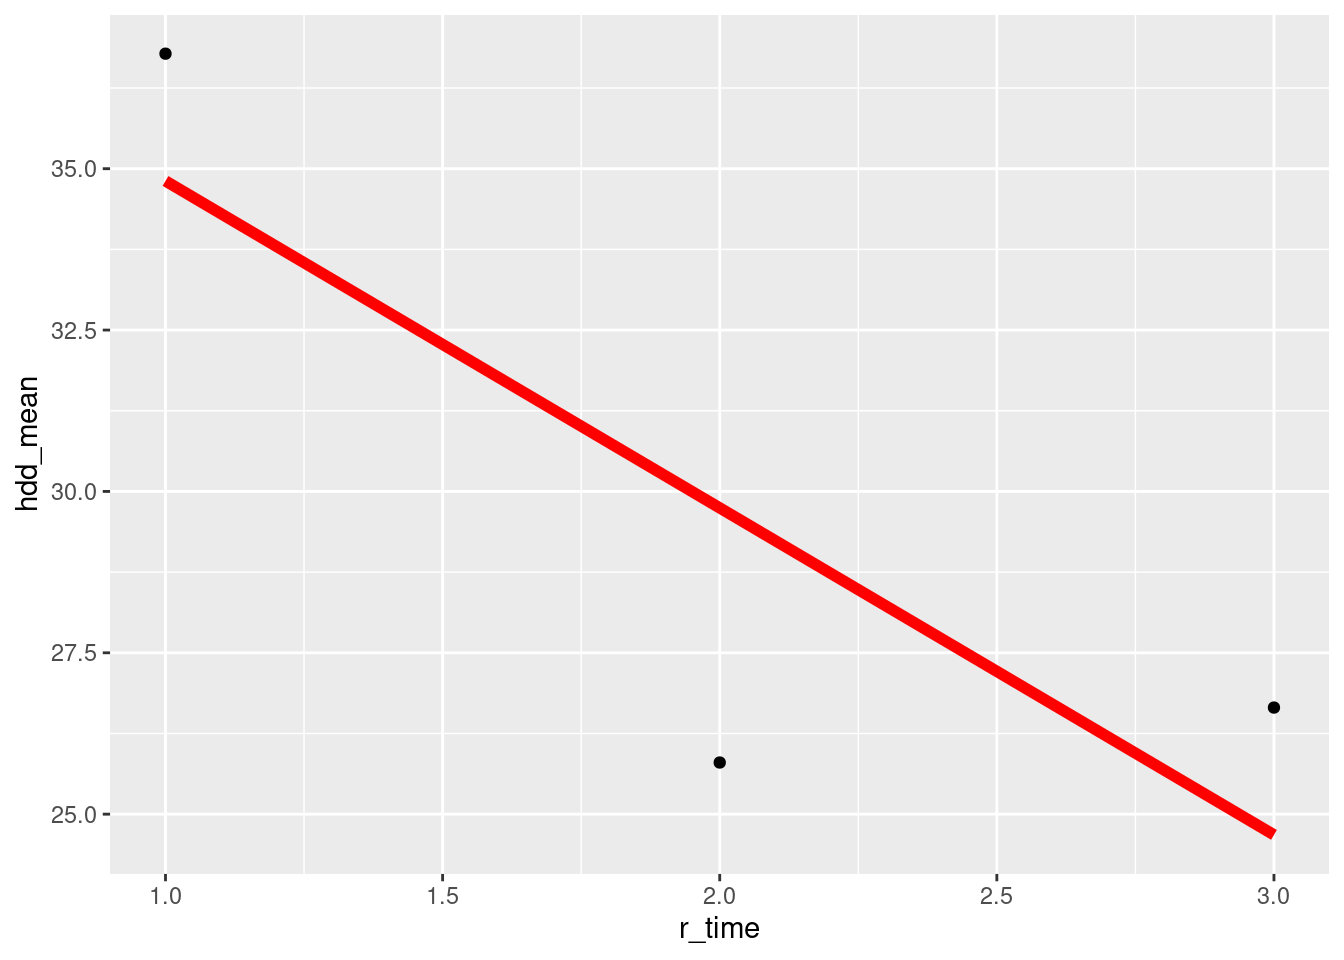
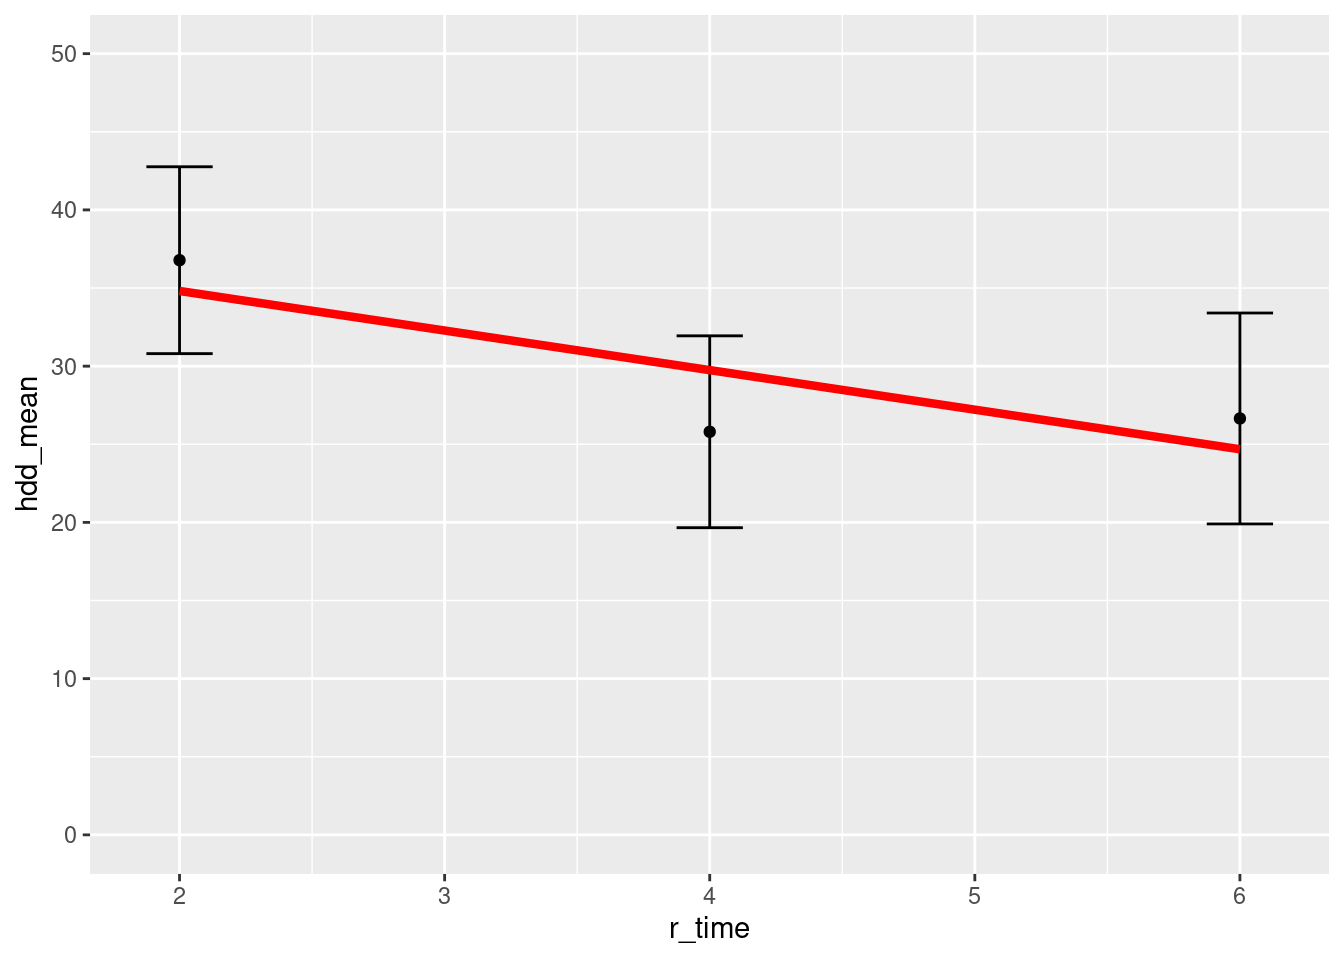
add error bars

diff --git a/docs/repeated_measures.html b/docs/repeated_measures.html
@@ -2,7 +2,7 @@
 <html xmlns="http://www.w3.org/1999/xhtml" lang="en" xml:lang="en"><head>
 
 <meta charset="utf-8">
-<meta name="generator" content="quarto-1.3.361">
+<meta name="generator" content="quarto-1.3.433">
 
 <meta name="viewport" content="width=device-width, initial-scale=1.0, user-scalable=yes">
 
@@ -126,7 +126,7 @@ pre > code.sourceCode > span > a:first-child::before { text-decoration: underlin
     <div class="sidebar-title mb-0 py-0">
       <a href="./">John Curtin’s Stats and Coding Notebook</a> 
         <div class="sidebar-tools-main">
-    <a href="https://github.com/jjcurtin/docs_notes" title="Source Code" class="quarto-navigation-tool px-1" aria-label="Source Code"><i class="bi bi-github"></i></a>
+    <a href="https://github.com/jjcurtin/docs_notes" rel="" title="Source Code" class="quarto-navigation-tool px-1" aria-label="Source Code"><i class="bi bi-github"></i></a>
 </div>
     </div>
       </div>
@@ -937,7 +937,7 @@ Signif. codes:  0 '***' 0.001 '**' 0.01 '*' 0.05 '.' 0.1 ' ' 1</code></pre>
 <p>And this model doesn’t make sphericity assumption because it allows for the slopes to vary by subject</p>
 <div class="cell">
 <div class="sourceCode cell-code" id="cb75"><pre class="sourceCode r code-with-copy"><code class="sourceCode r"><span id="cb75-1"><a href="#cb75-1" aria-hidden="true" tabindex="-1"></a>d_long <span class="ot">&lt;-</span> d_long <span class="sc">|&gt;</span> </span>
-<span id="cb75-2"><a href="#cb75-2" aria-hidden="true" tabindex="-1"></a>  <span class="fu">mutate</span>(<span class="at">r_time =</span> <span class="fu">as.numeric</span>(time),</span>
+<span id="cb75-2"><a href="#cb75-2" aria-hidden="true" tabindex="-1"></a>  <span class="fu">mutate</span>(<span class="at">r_time =</span> <span class="fu">as.numeric</span>(time) <span class="sc">*</span> <span class="dv">2</span>,  <span class="co"># for 2, 4, and 6 months</span></span>
 <span id="cb75-3"><a href="#cb75-3" aria-hidden="true" tabindex="-1"></a>         <span class="at">c_time =</span> r_time <span class="sc">-</span> <span class="dv">2</span>) <span class="sc">|&gt;</span> </span>
 <span id="cb75-4"><a href="#cb75-4" aria-hidden="true" tabindex="-1"></a>  <span class="fu">glimpse</span>()</span></code><button title="Copy to Clipboard" class="code-copy-button"><i class="bi"></i></button></pre></div>
 <div class="cell-output cell-output-stdout">
@@ -949,8 +949,8 @@ $ time      &lt;fct&gt; time1, time2, time3, time1, time2, time3, time1, time2, 
 $ hdd       &lt;dbl&gt; 65.0, 59.5, 42.0, 100.0, 100.0, 100.0, 0.0, 0.0, 0.0, 13.6, …
 $ time_32v1 &lt;dbl&gt; -0.6666667, 0.3333333, 0.3333333, -0.6666667, 0.3333333, 0.3…
 $ time_3v2  &lt;dbl&gt; 0.0, -0.5, 0.5, 0.0, -0.5, 0.5, 0.0, -0.5, 0.5, 0.0, -0.5, 0…
-$ r_time    &lt;dbl&gt; 1, 2, 3, 1, 2, 3, 1, 2, 3, 1, 2, 3, 1, 2, 3, 1, 2, 3, 1, 2, …
-$ c_time    &lt;dbl&gt; -1, 0, 1, -1, 0, 1, -1, 0, 1, -1, 0, 1, -1, 0, 1, -1, 0, 1, …</code></pre>
+$ r_time    &lt;dbl&gt; 2, 4, 6, 2, 4, 6, 2, 4, 6, 2, 4, 6, 2, 4, 6, 2, 4, 6, 2, 4, …
+$ c_time    &lt;dbl&gt; 0, 2, 4, 0, 2, 4, 0, 2, 4, 0, 2, 4, 0, 2, 4, 0, 2, 4, 0, 2, …</code></pre>
 </div>
 </div>
 <div class="cell">
@@ -962,16 +962,16 @@ $ c_time    &lt;dbl&gt; -1, 0, 1, -1, 0, 1, -1, 0, 1, -1, 0, 1, -1, 0, 1, -1, 0,
 <pre><code>Linear mixed model fit by REML ['lmerMod']
 Formula: hdd ~ r_time + (1 + r_time | study_id)
    Data: d_long
-REML criterion at convergence: 916.1419
+REML criterion at convergence: 917.5282
 Random effects:
  Groups   Name        Std.Dev. Corr 
- study_id (Intercept) 34.50         
-          r_time      11.10    -0.44
- Residual             14.73         
+ study_id (Intercept) 34.504        
+          r_time       5.552   -0.44
+ Residual             14.732        
 Number of obs: 99, groups:  study_id, 33
 Fixed Effects:
 (Intercept)       r_time  
-     39.875       -5.065  </code></pre>
+     39.875       -2.533  </code></pre>
 </div>
 <div class="sourceCode cell-code" id="cb79"><pre class="sourceCode r code-with-copy"><code class="sourceCode r"><span id="cb79-1"><a href="#cb79-1" aria-hidden="true" tabindex="-1"></a>m_raw <span class="sc">|&gt;</span> </span>
 <span id="cb79-2"><a href="#cb79-2" aria-hidden="true" tabindex="-1"></a>  car<span class="sc">::</span><span class="fu">Anova</span>(<span class="at">type =</span> <span class="dv">3</span>, <span class="at">test =</span> <span class="st">"F"</span>)</span></code><button title="Copy to Clipboard" class="code-copy-button"><i class="bi"></i></button></pre></div>
@@ -980,7 +980,7 @@ Fixed Effects:
 
 Response: hdd
                   F Df Df.res    Pr(&gt;F)    
-(Intercept) 30.9199  1     32 3.887e-06 ***
+(Intercept) 30.9206  1     32 3.887e-06 ***
 r_time       3.6522  1     32   0.06499 .  
 ---
 Signif. codes:  0 '***' 0.001 '**' 0.01 '*' 0.05 '.' 0.1 ' ' 1</code></pre>
@@ -996,16 +996,16 @@ Signif. codes:  0 '***' 0.001 '**' 0.01 '*' 0.05 '.' 0.1 ' ' 1</code></pre>
 <pre><code>Linear mixed model fit by REML ['lmerMod']
 Formula: hdd ~ c_time + (1 + c_time | study_id)
    Data: d_long
-REML criterion at convergence: 916.1419
+REML criterion at convergence: 917.5282
 Random effects:
- Groups   Name        Std.Dev. Corr
- study_id (Intercept) 31.87        
-          c_time      11.10    0.22
- Residual             14.73        
+ Groups   Name        Std.Dev. Corr 
+ study_id (Intercept) 31.303        
+          c_time       5.552   -0.13
+ Residual             14.732        
 Number of obs: 99, groups:  study_id, 33
 Fixed Effects:
 (Intercept)       c_time  
-     29.744       -5.065  </code></pre>
+     34.810       -2.533  </code></pre>
 </div>
 <div class="sourceCode cell-code" id="cb83"><pre class="sourceCode r code-with-copy"><code class="sourceCode r"><span id="cb83-1"><a href="#cb83-1" aria-hidden="true" tabindex="-1"></a>m_center <span class="sc">|&gt;</span> </span>
 <span id="cb83-2"><a href="#cb83-2" aria-hidden="true" tabindex="-1"></a>  car<span class="sc">::</span><span class="fu">Anova</span>(<span class="at">type =</span> <span class="dv">3</span>, <span class="at">test =</span> <span class="st">"F"</span>)</span></code><button title="Copy to Clipboard" class="code-copy-button"><i class="bi"></i></button></pre></div>
@@ -1014,7 +1014,7 @@ Fixed Effects:
 
 Response: hdd
                   F Df Df.res    Pr(&gt;F)    
-(Intercept) 26.8308  1     32 1.178e-05 ***
+(Intercept) 34.4489  1     32 1.585e-06 ***
 c_time       3.6523  1     32   0.06498 .  
 ---
 Signif. codes:  0 '***' 0.001 '**' 0.01 '*' 0.05 '.' 0.1 ' ' 1</code></pre>
@@ -1034,9 +1034,9 @@ $ time      &lt;fct&gt; time1, time2, time3, time1, time2, time3, time1, time2, 
 $ hdd       &lt;dbl&gt; 65.0, 59.5, 42.0, 100.0, 100.0, 100.0, 0.0, 0.0, 0.0, 13.6, …
 $ time_32v1 &lt;dbl&gt; -0.6666667, 0.3333333, 0.3333333, -0.6666667, 0.3333333, 0.3…
 $ time_3v2  &lt;dbl&gt; 0.0, -0.5, 0.5, 0.0, -0.5, 0.5, 0.0, -0.5, 0.5, 0.0, -0.5, 0…
-$ r_time    &lt;dbl&gt; 1, 2, 3, 1, 2, 3, 1, 2, 3, 1, 2, 3, 1, 2, 3, 1, 2, 3, 1, 2, …
-$ c_time    &lt;dbl&gt; -1, 0, 1, -1, 0, 1, -1, 0, 1, -1, 0, 1, -1, 0, 1, -1, 0, 1, …
-$ c_time2   &lt;dbl&gt; 1, 0, 1, 1, 0, 1, 1, 0, 1, 1, 0, 1, 1, 0, 1, 1, 0, 1, 1, 0, …</code></pre>
+$ r_time    &lt;dbl&gt; 2, 4, 6, 2, 4, 6, 2, 4, 6, 2, 4, 6, 2, 4, 6, 2, 4, 6, 2, 4, …
+$ c_time    &lt;dbl&gt; 0, 2, 4, 0, 2, 4, 0, 2, 4, 0, 2, 4, 0, 2, 4, 0, 2, 4, 0, 2, …
+$ c_time2   &lt;dbl&gt; 0, 4, 16, 0, 4, 16, 0, 4, 16, 0, 4, 16, 0, 4, 16, 0, 4, 16, …</code></pre>
 </div>
 </div>
 <p>But you can’t fit poly model with quadratic effect with random slopes because, once again cant estimate intercept and both random slopes without more observations per subject</p>
@@ -1055,7 +1055,7 @@ $ c_time2   &lt;dbl&gt; 1, 0, 1, 1, 0, 1, 1, 0, 1, 1, 0, 1, 1, 0, 1, 1, 0, 1, 1,
 <pre><code>Linear mixed model fit by REML ['lmerMod']
 Formula: hdd ~ c_time + c_time2 + (1 | study_id)
    Data: d_long
-REML criterion at convergence: 914.686
+REML criterion at convergence: 918.8449
 Random effects:
  Groups   Name        Std.Dev.
  study_id (Intercept) 31.27   
@@ -1063,7 +1063,7 @@ Random effects:
 Number of obs: 99, groups:  study_id, 33
 Fixed Effects:
 (Intercept)       c_time      c_time2  
-     25.800       -5.065        5.917  </code></pre>
+     36.782       -8.449        1.479  </code></pre>
 </div>
 <div class="sourceCode cell-code" id="cb90"><pre class="sourceCode r code-with-copy"><code class="sourceCode r"><span id="cb90-1"><a href="#cb90-1" aria-hidden="true" tabindex="-1"></a>m_poly <span class="sc">|&gt;</span> </span>
 <span id="cb90-2"><a href="#cb90-2" aria-hidden="true" tabindex="-1"></a>  car<span class="sc">::</span><span class="fu">Anova</span>(<span class="at">type =</span> <span class="dv">3</span>, <span class="at">test =</span> <span class="st">"F"</span>)</span></code><button title="Copy to Clipboard" class="code-copy-button"><i class="bi"></i></button></pre></div>
@@ -1071,10 +1071,10 @@ Fixed Effects:
 <pre><code>Analysis of Deviance Table (Type III Wald F tests with Kenward-Roger df)
 
 Response: hdd
-                  F Df Df.res    Pr(&gt;F)    
-(Intercept) 16.7773  1 45.389 0.0001711 ***
-c_time       5.1052  1 64.000 0.0272672 *  
-c_time2      2.3220  1 64.000 0.1324835    
+                 F Df Df.res    Pr(&gt;F)    
+(Intercept) 34.099  1 45.389 5.255e-07 ***
+c_time       4.371  1 64.000   0.04053 *  
+c_time2      2.322  1 64.000   0.13248    
 ---
 Signif. codes:  0 '***' 0.001 '**' 0.01 '*' 0.05 '.' 0.1 ' ' 1</code></pre>
 </div>
@@ -1088,25 +1088,26 @@ Signif. codes:  0 '***' 0.001 '**' 0.01 '*' 0.05 '.' 0.1 ' ' 1</code></pre>
 <div class="sourceCode cell-code" id="cb92"><pre class="sourceCode r code-with-copy"><code class="sourceCode r"><span id="cb92-1"><a href="#cb92-1" aria-hidden="true" tabindex="-1"></a><span class="co"># we can add the means from raw data to plot and then superimpose the fitted model</span></span>
 <span id="cb92-2"><a href="#cb92-2" aria-hidden="true" tabindex="-1"></a>d_plot <span class="ot">&lt;-</span> d_long <span class="sc">|&gt;</span> </span>
 <span id="cb92-3"><a href="#cb92-3" aria-hidden="true" tabindex="-1"></a>  <span class="fu">group_by</span>(r_time) <span class="sc">|&gt;</span> </span>
-<span id="cb92-4"><a href="#cb92-4" aria-hidden="true" tabindex="-1"></a>  <span class="fu">summarize</span>(<span class="at">hdd_mean =</span> <span class="fu">mean</span>(hdd), <span class="at">hdd_sd =</span> <span class="fu">sd</span>(hdd)) <span class="sc">|&gt;</span> </span>
-<span id="cb92-5"><a href="#cb92-5" aria-hidden="true" tabindex="-1"></a>  <span class="fu">mutate</span>(<span class="at">study_id =</span> <span class="dv">999</span>)</span>
-<span id="cb92-6"><a href="#cb92-6" aria-hidden="true" tabindex="-1"></a></span>
-<span id="cb92-7"><a href="#cb92-7" aria-hidden="true" tabindex="-1"></a>d_plot <span class="ot">&lt;-</span> d_plot <span class="sc">|&gt;</span> </span>
-<span id="cb92-8"><a href="#cb92-8" aria-hidden="true" tabindex="-1"></a>  <span class="fu">mutate</span>(<span class="at">hdd_pred =</span> <span class="fu">predict</span>(m_raw, <span class="at">newdata =</span> d_plot, <span class="at">allow.new.levels =</span> <span class="cn">TRUE</span>)) <span class="sc">|&gt;</span> </span>
-<span id="cb92-9"><a href="#cb92-9" aria-hidden="true" tabindex="-1"></a>  <span class="fu">glimpse</span>()</span></code><button title="Copy to Clipboard" class="code-copy-button"><i class="bi"></i></button></pre></div>
+<span id="cb92-4"><a href="#cb92-4" aria-hidden="true" tabindex="-1"></a>  <span class="fu">summarize</span>(<span class="at">hdd_mean =</span> <span class="fu">mean</span>(hdd), <span class="at">hdd_se =</span> <span class="fu">sd</span>(hdd)<span class="sc">/</span> <span class="fu">sqrt</span>(<span class="fu">length</span>(hdd)))</span>
+<span id="cb92-5"><a href="#cb92-5" aria-hidden="true" tabindex="-1"></a></span>
+<span id="cb92-6"><a href="#cb92-6" aria-hidden="true" tabindex="-1"></a>d_plot <span class="ot">&lt;-</span> d_plot <span class="sc">|&gt;</span> </span>
+<span id="cb92-7"><a href="#cb92-7" aria-hidden="true" tabindex="-1"></a>  <span class="fu">mutate</span>(<span class="at">hdd_pred =</span> <span class="fu">predict</span>(m_raw, <span class="at">newdata =</span> d_plot, <span class="at">re.form =</span> <span class="cn">NA</span>)) <span class="sc">|&gt;</span> </span>
+<span id="cb92-8"><a href="#cb92-8" aria-hidden="true" tabindex="-1"></a>  <span class="fu">glimpse</span>()</span></code><button title="Copy to Clipboard" class="code-copy-button"><i class="bi"></i></button></pre></div>
 <div class="cell-output cell-output-stdout">
 <pre><code>Rows: 3
-Columns: 5
-$ r_time   &lt;dbl&gt; 1, 2, 3
+Columns: 4
+$ r_time   &lt;dbl&gt; 2, 4, 6
 $ hdd_mean &lt;dbl&gt; 36.78182, 25.80000, 26.65152
-$ hdd_sd   &lt;dbl&gt; 34.35172, 35.27460, 38.77493
-$ study_id &lt;dbl&gt; 999, 999, 999
+$ hdd_se   &lt;dbl&gt; 5.979868, 6.140520, 6.749849
 $ hdd_pred &lt;dbl&gt; 34.80960, 29.74444, 24.67929</code></pre>
 </div>
 <div class="sourceCode cell-code" id="cb94"><pre class="sourceCode r code-with-copy"><code class="sourceCode r"><span id="cb94-1"><a href="#cb94-1" aria-hidden="true" tabindex="-1"></a>d_plot <span class="sc">|&gt;</span> </span>
 <span id="cb94-2"><a href="#cb94-2" aria-hidden="true" tabindex="-1"></a>  <span class="fu">ggplot</span>(<span class="fu">aes</span>(<span class="at">x =</span> r_time)) <span class="sc">+</span></span>
-<span id="cb94-3"><a href="#cb94-3" aria-hidden="true" tabindex="-1"></a>    <span class="fu">geom_point</span>(<span class="fu">aes</span>(<span class="at">y =</span> hdd_mean)) <span class="sc">+</span></span>
-<span id="cb94-4"><a href="#cb94-4" aria-hidden="true" tabindex="-1"></a>    <span class="fu">geom_line</span>(<span class="fu">aes</span>(<span class="at">y =</span> hdd_pred), <span class="at">color =</span> <span class="st">"red"</span>, <span class="at">linewidth =</span> <span class="dv">2</span>) </span></code><button title="Copy to Clipboard" class="code-copy-button"><i class="bi"></i></button></pre></div>
+<span id="cb94-3"><a href="#cb94-3" aria-hidden="true" tabindex="-1"></a>    <span class="fu">geom_errorbar</span>(<span class="fu">aes</span>(<span class="at">ymin =</span> hdd_mean <span class="sc">-</span> hdd_se, <span class="at">ymax =</span> hdd_mean <span class="sc">+</span> hdd_se),</span>
+<span id="cb94-4"><a href="#cb94-4" aria-hidden="true" tabindex="-1"></a>                  <span class="at">width =</span> .<span class="dv">25</span>) <span class="sc">+</span></span>
+<span id="cb94-5"><a href="#cb94-5" aria-hidden="true" tabindex="-1"></a>    <span class="fu">geom_point</span>(<span class="fu">aes</span>(<span class="at">y =</span> hdd_mean)) <span class="sc">+</span></span>
+<span id="cb94-6"><a href="#cb94-6" aria-hidden="true" tabindex="-1"></a>    <span class="fu">geom_line</span>(<span class="fu">aes</span>(<span class="at">y =</span> hdd_pred), <span class="at">color =</span> <span class="st">"red"</span>, <span class="at">linewidth =</span> <span class="fl">1.5</span>) <span class="sc">+</span></span>
+<span id="cb94-7"><a href="#cb94-7" aria-hidden="true" tabindex="-1"></a>    <span class="fu">ylim</span>(<span class="dv">0</span>, <span class="dv">50</span>)</span></code><button title="Copy to Clipboard" class="code-copy-button"><i class="bi"></i></button></pre></div>
 <div class="cell-output-display">
 <p><img src="repeated_measures_files/figure-html/unnamed-chunk-32-1.png" class="img-fluid" width="672"></p>
 </div>
